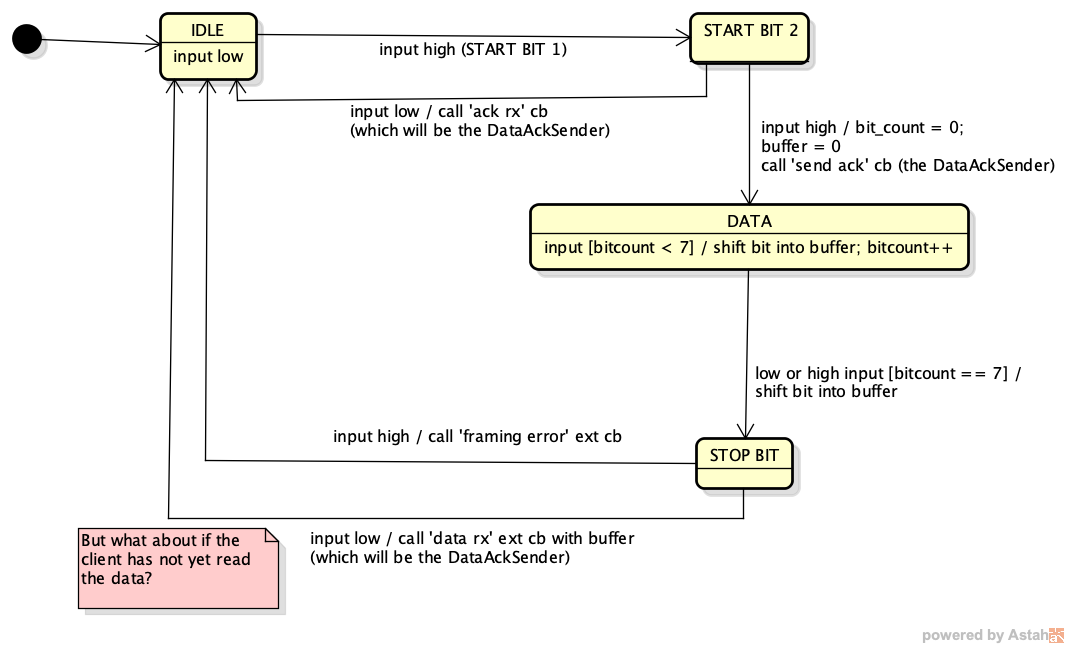
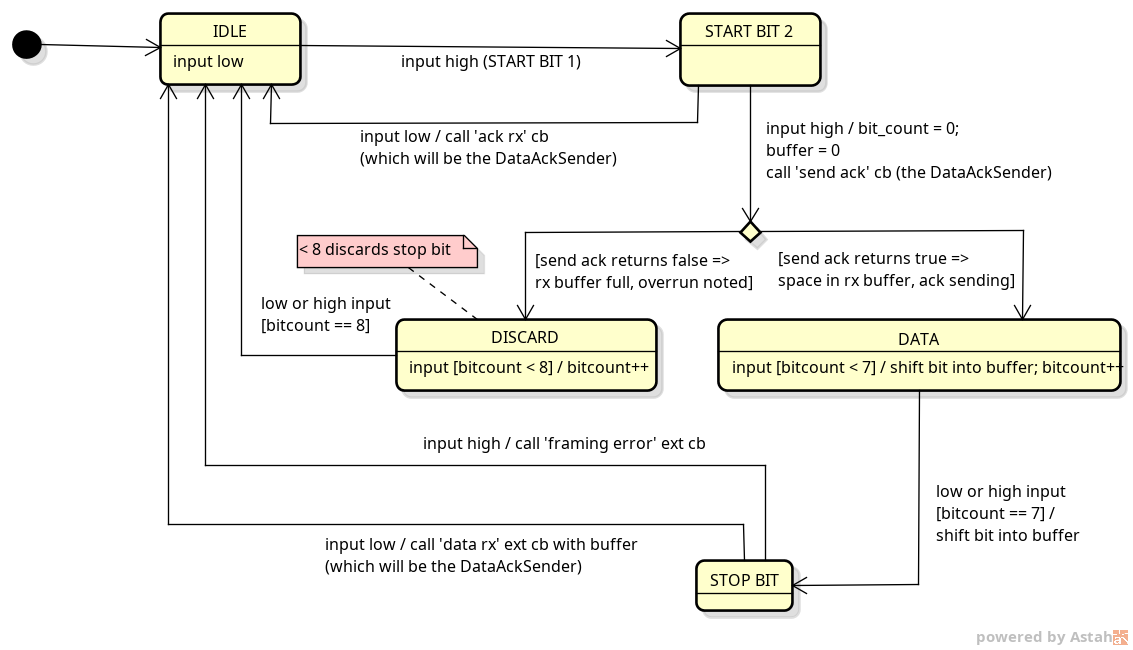
DataAckReceiver: Data reception and overrun detection (WIP).

diff --git a/Shared/testasynclink.cpp b/Shared/testasynclink.cpp
@@ -489,6 +489,10 @@ TEST_F(OversampledTxRxPinTest, PerfectInputAckNoListener) {
     EXPECT_EQ(m_received_bits, ""); // Tested as 100 when we listen.
 }
 
+// TODO better start bit detection in the OversampledTxRxPin - on receipt of the rising edge,
+// only start detection if the majority vote of the start bit is correct. This will prevent noise
+// at the starting sample triggering detection. (As mentioned in the Serial Communications book)
+
 // TODO there's much duplication in these test cases - should just have input, expected and a function.
 // TODO noisy cases of majority voting, all boundary cases
 
@@ -579,7 +583,7 @@ TEST_F(DataAckSenderTest, DataCanBeSent) {
 
 
 
-class DataAckReceiverTest : public ::testing::Test, AckReceiver {
+class DataAckReceiverTest : public ::testing::Test, AckReceiver, SendAckReceiver {
 protected:
 
     void SetUp() override {
@@ -589,7 +593,7 @@ protected:
         TxRxPin & pairB = m_pair.pairB();
         m_receiver = new DataAckReceiver(pairA);
         m_receiver->registerAckReceiver(*this); // dereference this to get a reference
-
+        m_receiver->registerSendAckReceiver(*this);
         logDebug("Setup complete");
         logFlush();
     }
@@ -600,19 +604,43 @@ protected:
         logFlush();
     }
 
+    // AckReceiver
     void ackReceived() override {
         logDebug("Ack received");
         m_acks_received++;
     }
 
+    // SendAckReceiver
+    void requestSendAck() override {
+        logDebug("Send Ack requested");
+        m_send_acks_received++;
+    }
+
+    void receiverOverrun() override {
+        logWarn("*** RECEIVER OVERRUN ***");
+        m_receiver_overruns++;
+    }
+
+    void goToStartBit2() {
+        // Enter START_BIT_2
+        m_receiver->bitStateReceived(true);
+    }
+
     CrosswiredTxRxPinPair m_pair;
     DataAckReceiver *m_receiver = nullptr;
     int m_acks_received = 0;
+    int m_send_acks_received = 0;
+    int m_receiver_overruns = 0;
 };
 
 TEST_F(DataAckReceiverTest, InitialConditions) {
     EXPECT_EQ(m_receiver->state(), DataAckReceiverState::IDLE);
+    EXPECT_EQ(m_receiver->_bit_count(), 0);
+    EXPECT_EQ(m_receiver->_buffer(), 0x00);
+
     EXPECT_EQ(m_acks_received, 0);
+    EXPECT_EQ(m_send_acks_received, 0);
+    EXPECT_EQ(m_receiver_overruns, 0);
 }
 
 TEST_F(DataAckReceiverTest, IdleReceivesHighGoesToStartBit2) {
@@ -637,8 +665,7 @@ TEST_F(DataAckReceiverTest, StartBit2ReceivesLowNoAckReceiverGoesToIdle) {
     // Test that the listener is only called if it's not nullptr.
     // Without that check, this test crashes.
     m_receiver->unregisterAckReceiver();
-    // Enter START_BIT_2
-    m_receiver->bitStateReceived(true);
+    goToStartBit2();
 
     // Back to IDLE - that should have generated an ack; our callback
     // would have been called, if we had one.
@@ -647,3 +674,30 @@ TEST_F(DataAckReceiverTest, StartBit2ReceivesLowNoAckReceiverGoesToIdle) {
     EXPECT_EQ(m_receiver->state(), DataAckReceiverState::IDLE);
     EXPECT_EQ(m_acks_received, 0); // no ack listener
 }
+
+TEST_F(DataAckReceiverTest, StartBit2ReceivesHighCallsSendAckGoesToData) {
+    goToStartBit2();
+
+    // Bodge these values as we want to sense their initialisation after
+    // the bit received...
+    m_receiver->m_bit_count = 4;
+    m_receiver->m_buffer = 0xC9;
+
+    // The receiver will call the internal 'send ack' callback, notifying
+    // the DataAckSender to send an ack as we can receive this data.
+    m_receiver->bitStateReceived(true);
+
+    EXPECT_EQ(m_receiver->state(), DataAckReceiverState::DATA);
+    EXPECT_EQ(m_send_acks_received, 1);
+    EXPECT_EQ(m_receiver->m_bit_count, 0);
+    EXPECT_EQ(m_receiver->m_buffer, 0x00);
+}
+
+// TODO send ack callback not called if unregistered.
+
+// TODO need to know whether the previous data has been read by the client, and
+// if not, do not call the callback to send the ack, and signal an
+// overrun to the client. Overrun only happens after a byte has been read.
+
+// TODO another case of overrun detection - on initialisation, there's no
+// previous data that the client should read, so no overrun initially.

diff --git a/Shared/asynclink.h b/Shared/asynclink.h
@@ -135,6 +135,15 @@ public:
     virtual void ackReceived() = 0;
 };
 
+// The DataAckReceiver will call a registered instance of SendAckReceiver's requestSendAck() when it
+// starts to receive data bits. The receiver is responsible for notifying of overrun (if it does not
+// have space in its receive buffer.
+class SendAckReceiver {
+public:
+    virtual ~SendAckReceiver() = default;
+    virtual void requestSendAck() = 0;
+};
+
 enum class DataAckReceiverState { IDLE, START_BIT_2, DATA, STOP_BIT };
 
 class DataAckReceiver : public RxBitReceiver {
@@ -142,13 +151,24 @@ public:
     explicit DataAckReceiver(TxRxPin& tx_rx_pin);
     DataAckReceiverState state() const;
     void bitStateReceived(bool state) override;
+
     void registerAckReceiver(AckReceiver& ackReceiver) const;
     void unregisterAckReceiver() const;
+    void registerSendAckReceiver(SendAckReceiver& sendAckReceiver) const;
+    void unregisterSendAckReceiver() const;
+
+    // Internal, used by tests, do not use
+    int _bit_count();
+    BYTE8 _buffer();
 
 private:
     TxRxPin & m_pin;
     DataAckReceiverState m_state;
+    int m_bit_count;
+    BYTE8 m_buffer;
+
     mutable AckReceiver *m_ack_receiver = nullptr;
+    mutable SendAckReceiver *m_send_ack_receiver = nullptr;
 };
 
 #endif // _ASYNCLINK_H

diff --git a/Shared/asynclink.cpp b/Shared/asynclink.cpp
@@ -313,7 +313,8 @@ void DataAckReceiver::bitStateReceived(const bool state) {
             break;
         case DataAckReceiverState::START_BIT_2:
             if (state) {
-                // TODO -> DATA
+                m_send_ack_receiver->requestSendAck();
+                m_state = DataAckReceiverState::DATA;
             } else {
                 if (m_ack_receiver != nullptr) {
                     m_ack_receiver->ackReceived();
@@ -337,5 +338,24 @@ void DataAckReceiver::registerAckReceiver(AckReceiver& ackReceiver) const {
 void DataAckReceiver::unregisterAckReceiver() const {
     m_ack_receiver = nullptr;
 }
+
+// Register the send ack listener
+void DataAckReceiver::registerSendAckReceiver(SendAckReceiver& sendAckReceiver) const {
+    m_send_ack_receiver = &sendAckReceiver;
+}
+
+// Unregister the send ack listener
+void DataAckReceiver::unregisterSendAckReceiver() const {
+    m_send_ack_receiver = nullptr;
+}
+
+int DataAckReceiver::_bit_count() {
+    return m_bit_count;
+}
+
+BYTE8 DataAckReceiver::_buffer() {
+    return m_buffer;
+}
+
 
 
